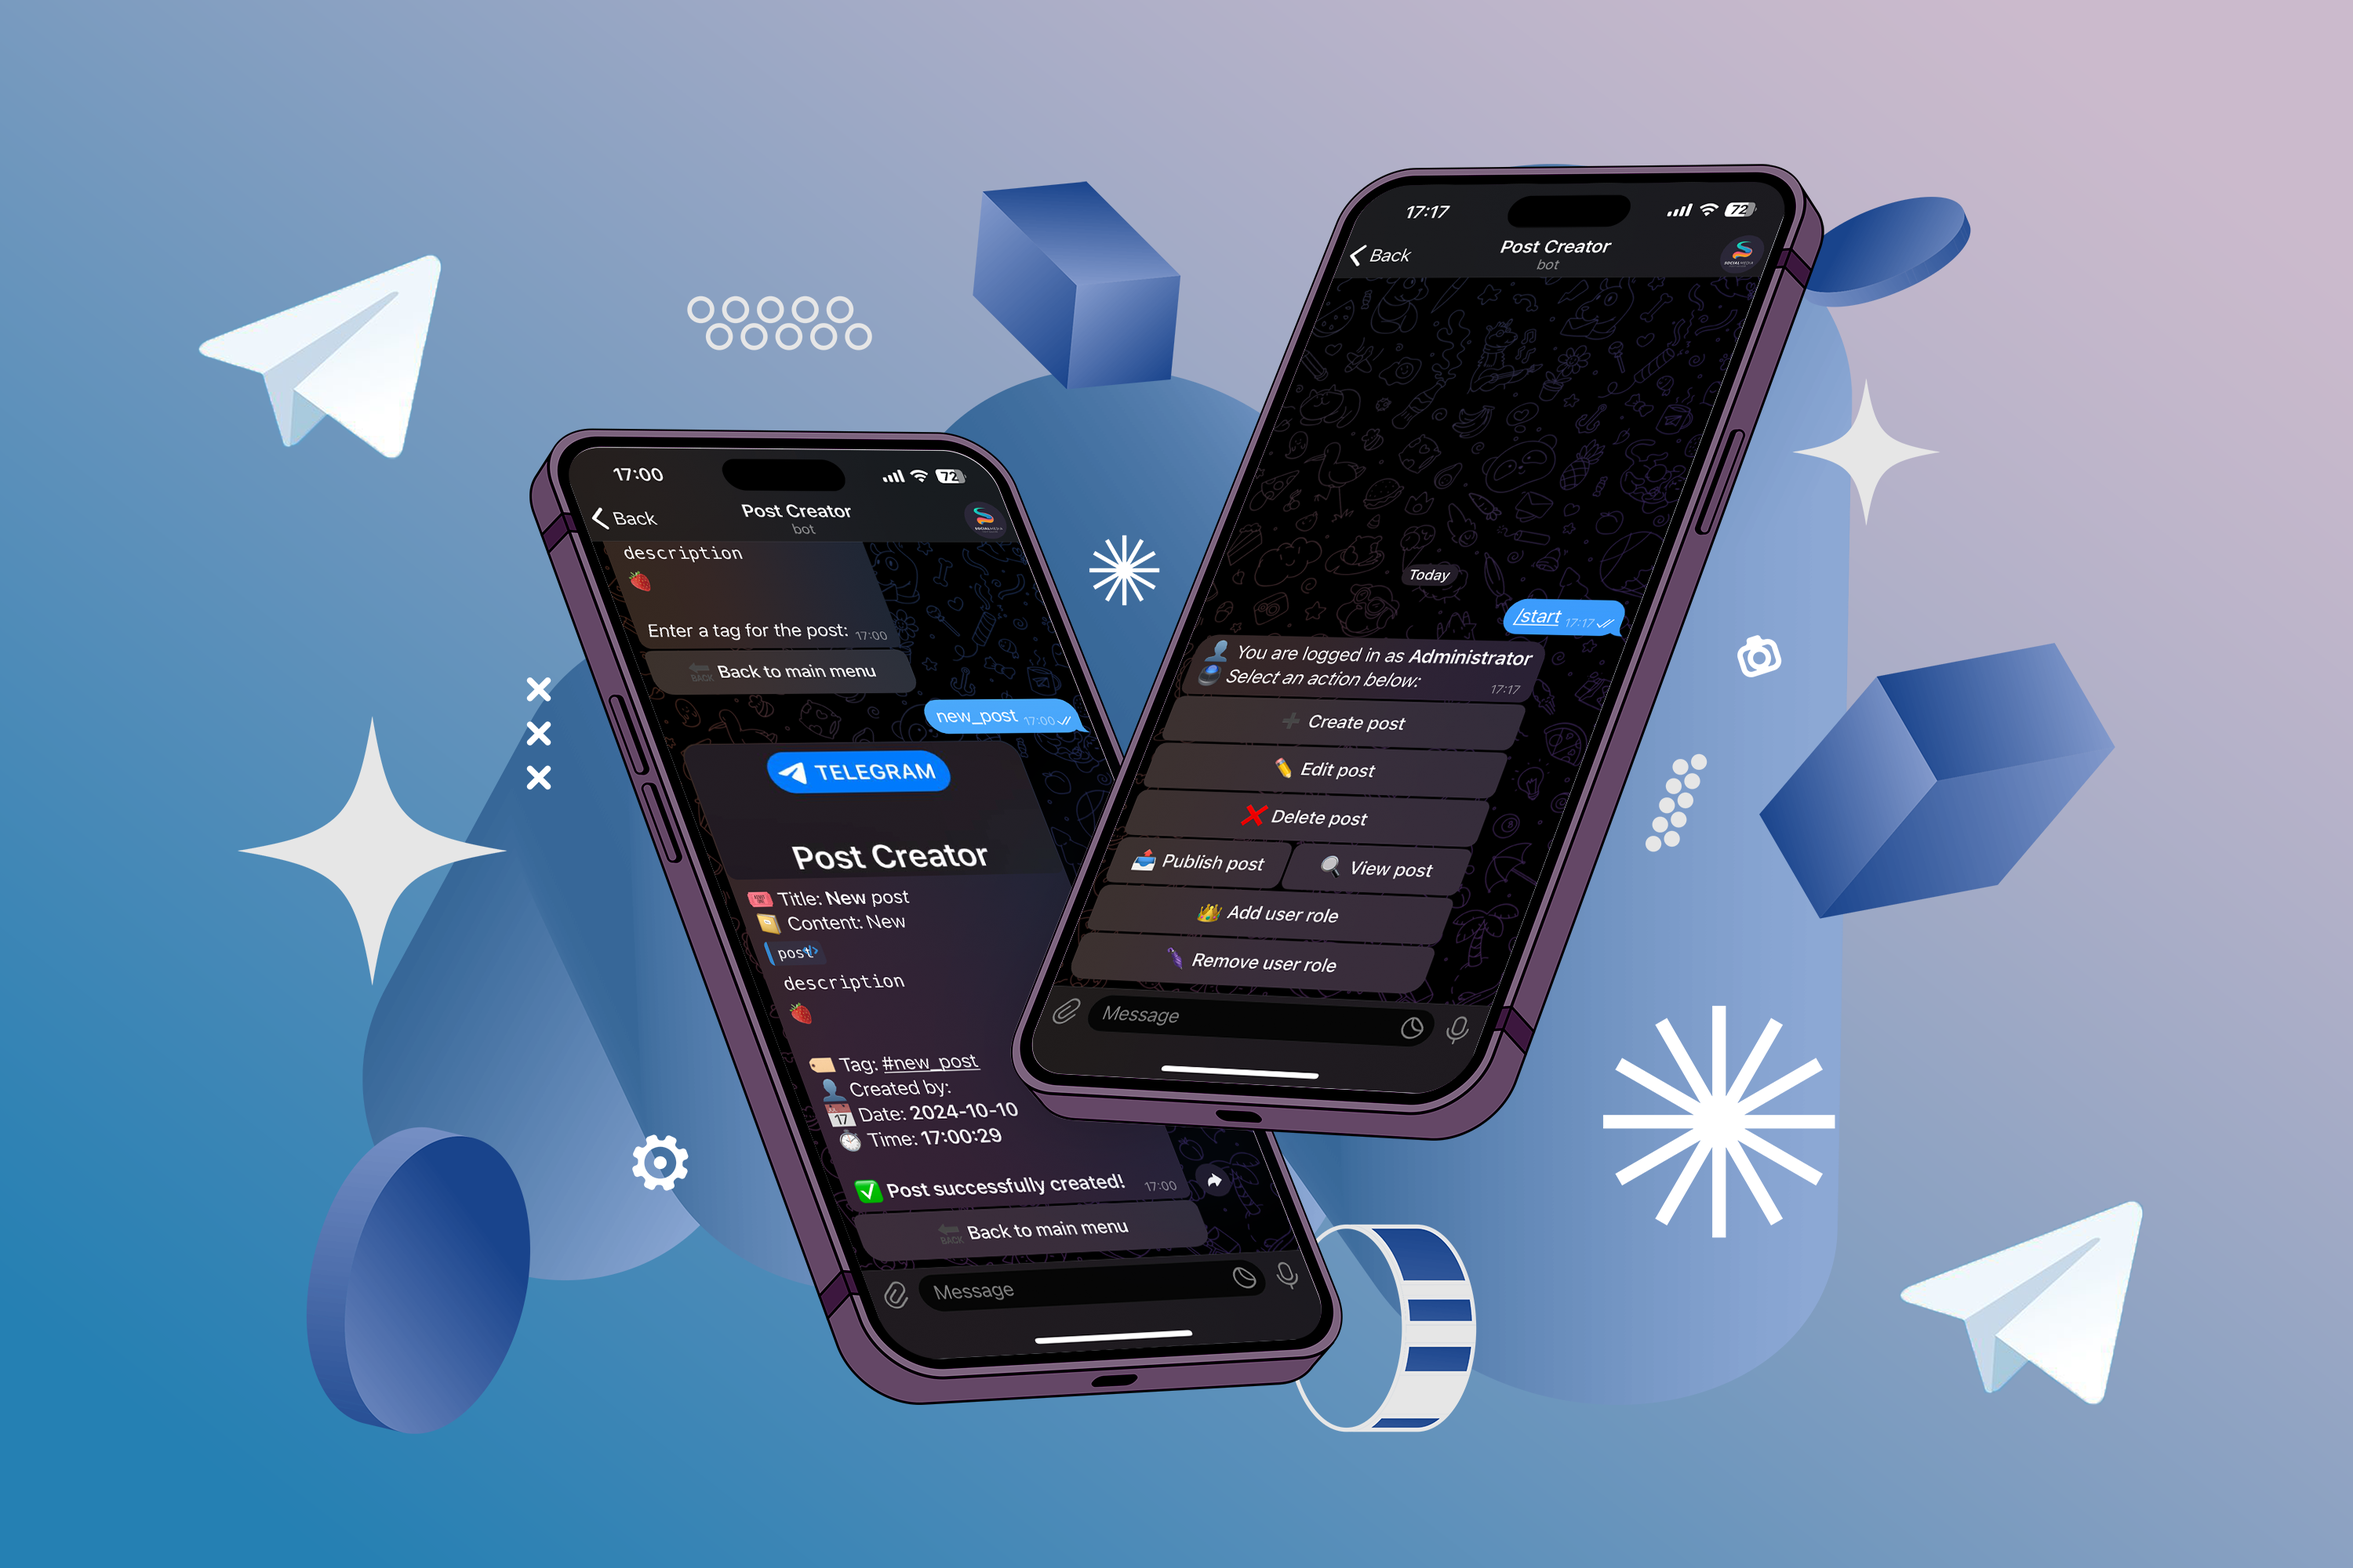
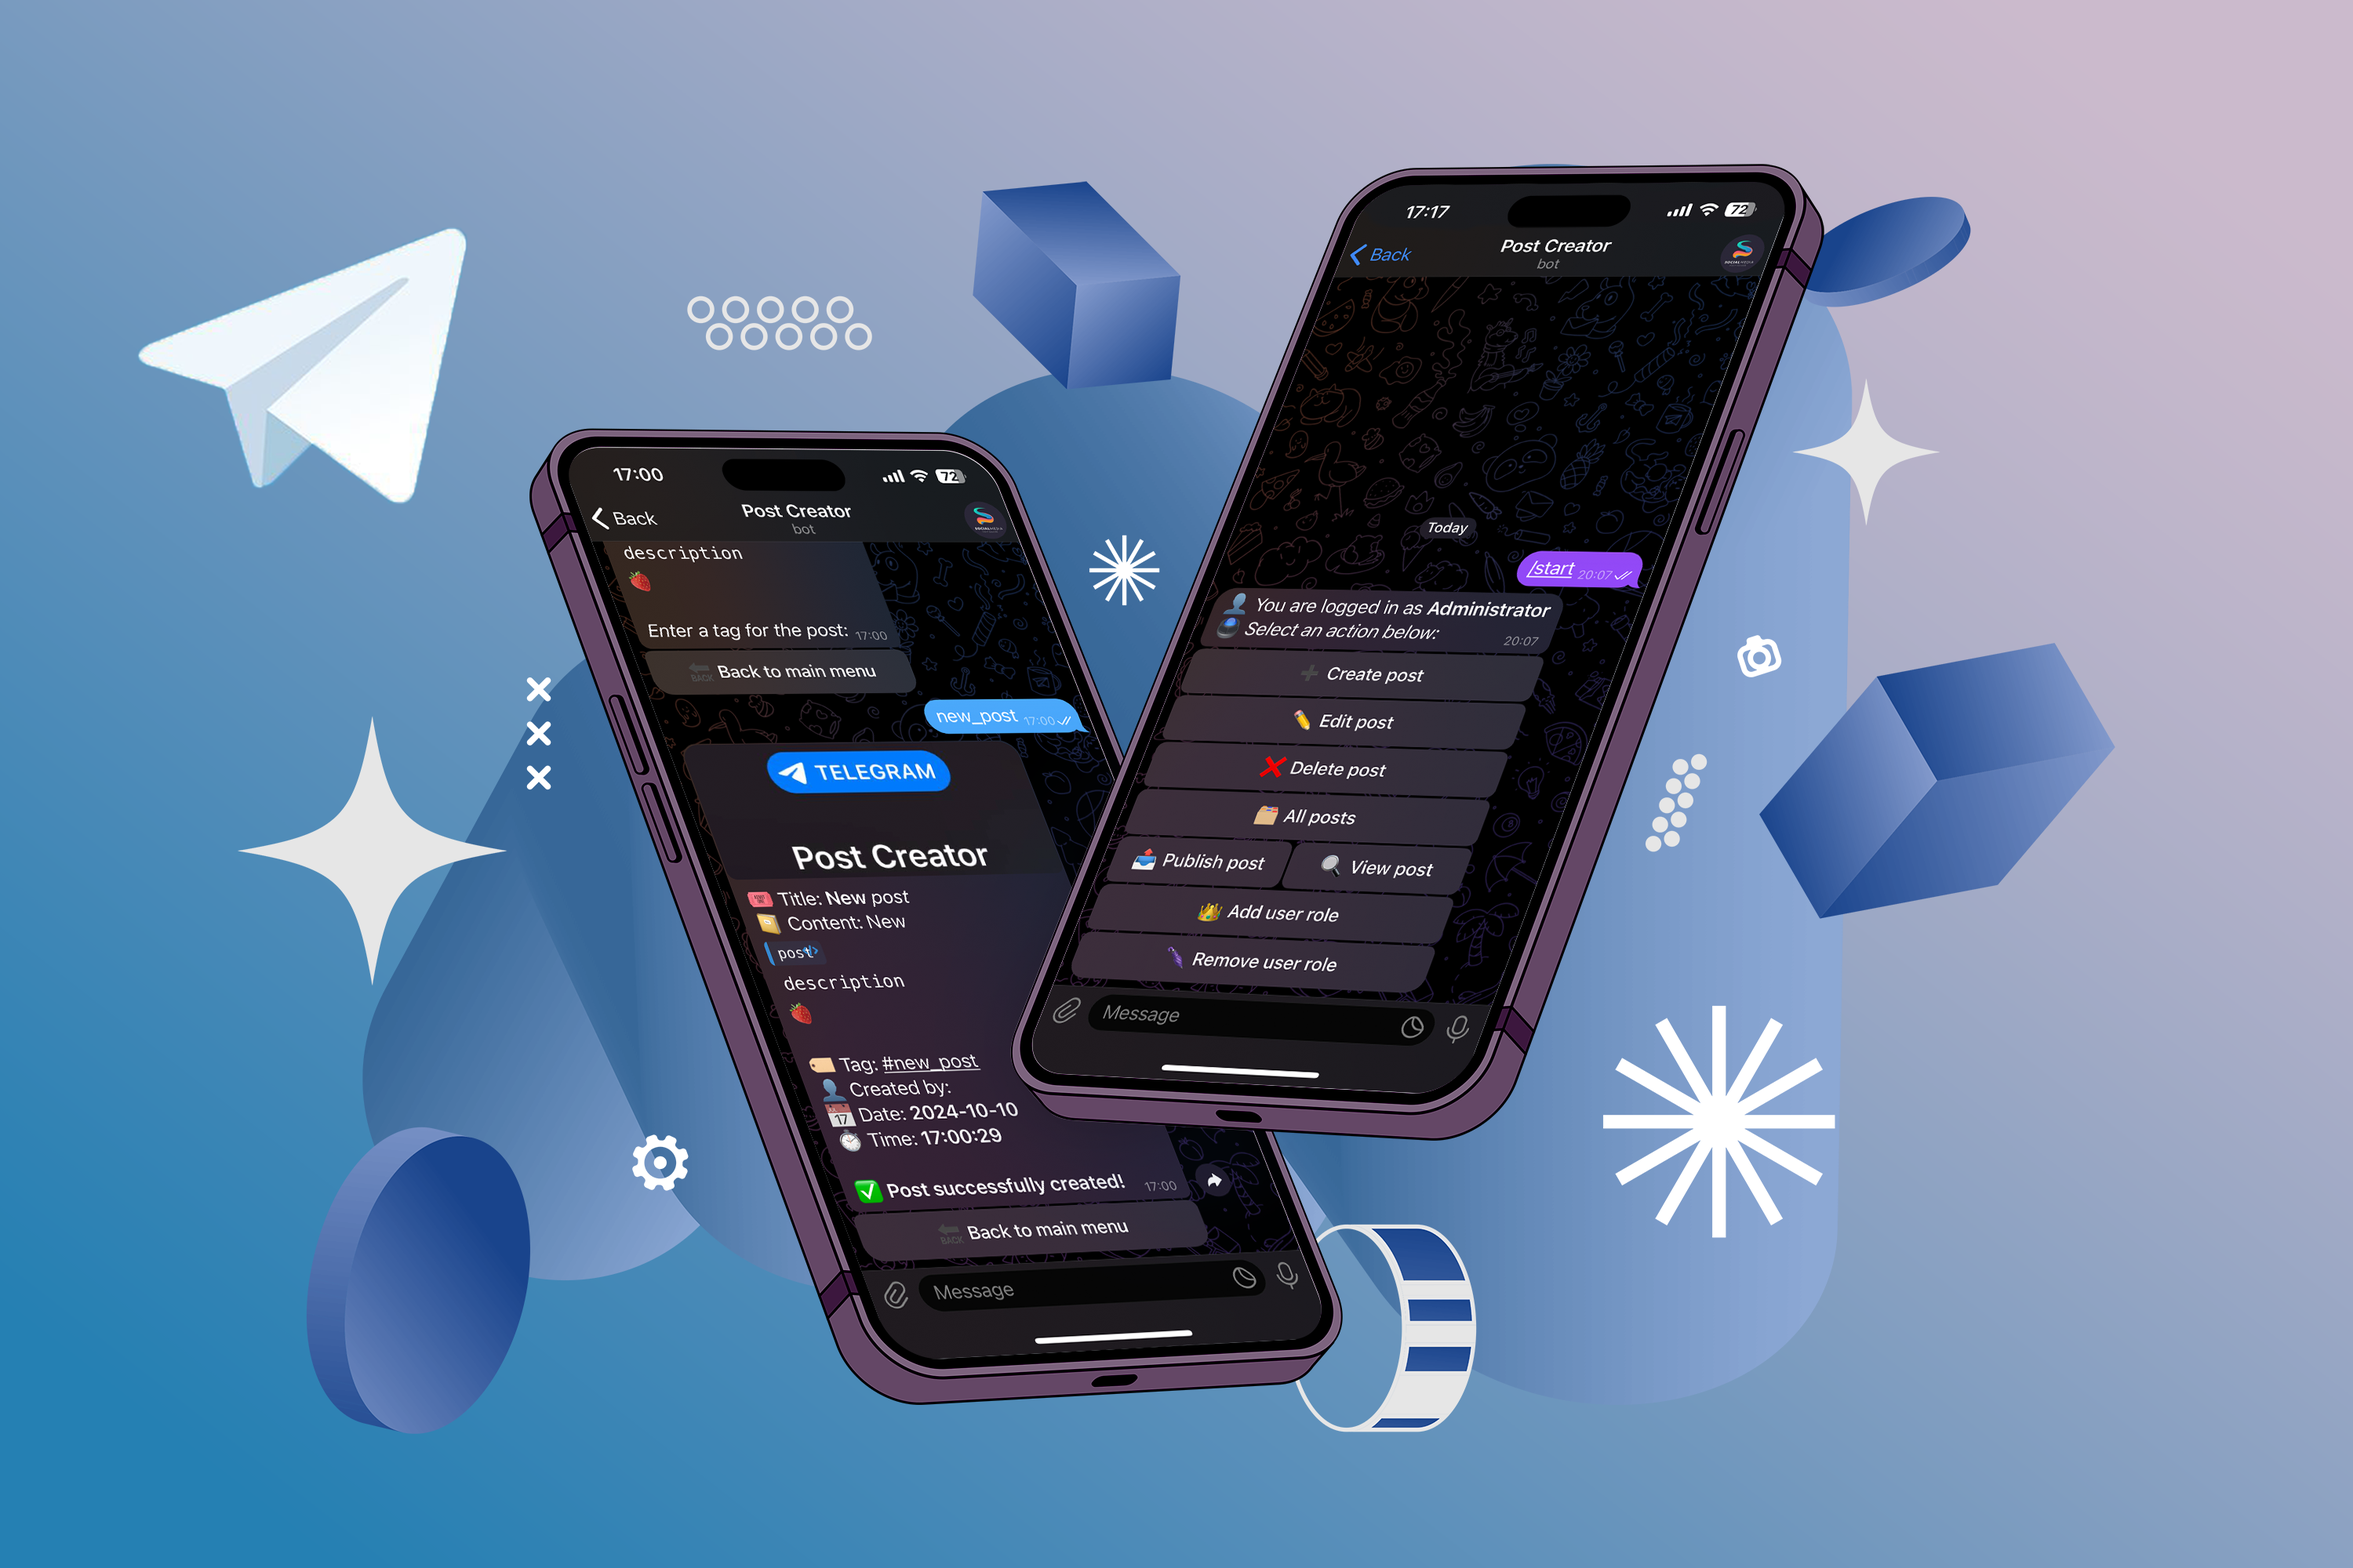
Added ability to view all posts and summary information about them.

diff --git a/handlers/admin_panel/check_post/check_post.py b/handlers/admin_panel/check_post/check_post.py
@@ -2,6 +2,7 @@ from aiogram import F, Router, types
 from aiogram.fsm.context import FSMContext
 from aiogram.utils.i18n import gettext as _
 
+from db.db_handler.get_post.get_all_posts import get_posts
 from db.db_handler.get_post.get_post import get_post
 from keyboards.admin_panel_keyboard_back_to_main_menu import admin_panel_keyboard_back_to_main_menu
 from states.post_actions import Check_post
@@ -9,10 +10,30 @@ from states.post_actions import Check_post
 router = Router()
 
 
+@router.callback_query(F.data == "get_all_posts")
+async def admin_panel_get_all_posts_callback(callback: types.CallbackQuery) -> None:
+    posts = await get_posts()
+
+    all_posts = "\n\n".join(
+        _("post.check.get_all_posts").format(
+            post_id=post.id,
+            post_title=post.post_name,
+            post_tag=post.post_tag
+        )
+        for post in posts
+    )
+    await callback.message.delete()
+    await callback.answer()
+
+    await callback.message.answer(text=all_posts.strip() if all_posts else _("post.check.no_found_posts"),
+                                  reply_markup=await admin_panel_keyboard_back_to_main_menu())
+
+
 @router.callback_query(F.data == "check_post")
 async def admin_panel_check_post_callback(callback: types.CallbackQuery, state: FSMContext) -> None:
     await state.set_state(Check_post.post_id)
     await callback.message.delete()
+    await callback.answer()
 
     await callback.message.answer(text=_("post.get_from_user.post_id"),
                                   reply_markup=await admin_panel_keyboard_back_to_main_menu())

diff --git a/keyboards/admin_panel_keyboard_main_menu.py b/keyboards/admin_panel_keyboard_main_menu.py
@@ -9,6 +9,7 @@ async def admin_panel_keyboard_main_menu() -> types.InlineKeyboardMarkup:
     builder.row(types.InlineKeyboardButton(text=_("kb.post.create"), callback_data="create_post"))
     builder.row(types.InlineKeyboardButton(text=_("kb.post.edit"), callback_data="change_post"))
     builder.row(types.InlineKeyboardButton(text=_("kb.post.delete"), callback_data="delete_post"))
+    builder.row(types.InlineKeyboardButton(text=_("kb.post.get_all_posts"), callback_data="get_all_posts"))
     builder.row(types.InlineKeyboardButton(text=_("kb.post.publish"), callback_data="publish_post"),
                 types.InlineKeyboardButton(text=_("kb.post.check"), callback_data="check_post"))
 

diff --git a/db/db_handler/get_post/get_all_posts.py b/db/db_handler/get_post/get_all_posts.py
@@ -1,0 +1,12 @@
+from sqlalchemy import select
+
+from db.models.models import Post, async_session
+
+
+async def get_posts() -> list:
+    async with async_session() as session:
+        result = await session.execute(
+            select(Post.id, Post.post_name, Post.post_tag))
+        rows = result.all()
+
+        return rows if rows else []

diff --git a/README.md b/README.md
@@ -10,6 +10,17 @@
 **Admin Bot** — is a simple Telegram bot designed for managing content and users in a Telegram channel. 
 The project is built using Python 3.12.2, leveraging `aiogram`, `asyncpg`, `Babel`, and `SQLAlchemy` for interacting with a `PostgreSQL` database.
 
+## Table of Contents
+ - [Key Features 🎯](#Key-Features)
+ - [Installation and Setup ⚙](#Installation-and-Setup)
+ - [Project Structure 🗂](#Project-Structure)
+ - [Makefile Commands 🛠](#Makefile-Commands)
+ - [Adding New Languages 🌐](#Adding-New-Languages)
+ - [Future Plans 🚀](#Future-Plans)
+ - [Contributing 💡](#Contributing)
+ - [License 🏷](#License)
+ - [Author 👤](#Author)
+
 ## Key Features:
 - Post management: view, create, edit, and delete posts.
 - Publish posts to a channel.
@@ -24,7 +35,7 @@ The project is built using Python 3.12.2, leveraging `aiogram`, `asyncpg`, `Babe
 
 ***Install dependencies from `requirements.txt`***
 
-## Installation Steps
+### Installation Steps
 #### Clone the repository:
 ```sh
 git clone https://github.com/dev-lymar/channel-admin-bot.git
